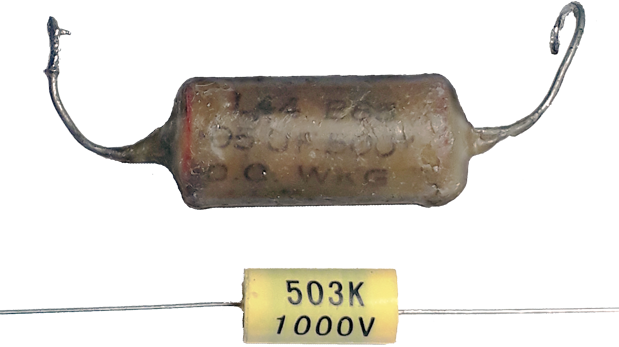
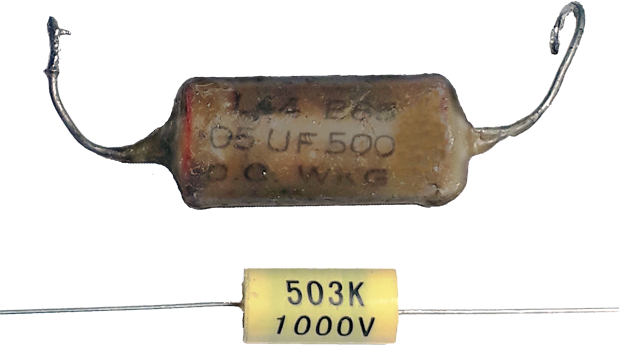
Modified the Heading "Motovation" on the about page.  Improved the wax-modern-comparison image.

Changed region(s): [[0.4297, 0.2594, 0.7367, 0.4899], [0.3376, 0.3458, 0.3683, 0.4323]]

diff --git a/client/src/app/views/about/about.component.html b/client/src/app/views/about/about.component.html
@@ -11,18 +11,34 @@
   </p>
   <br>
   <h2>Motivation</h2>
-  <p>
-    <app-image align="right" src="../../../assets/wax-modern-comparison.png" style="margin-left: 40px;"
-         width=300px alt="Comparison between antique and modern capacitor">
-    </app-image>
-    When collectors restore these old electronics, most of the original capacitors must be removed and replaced as many
-    have failed over time.  As these old radio components are replaced with modern equivalents, some of the historical
-    value and ascetic is lost.  I created this website to help preserve the history of these old components.
-    In addition, when restoring rare radios, some collectors will create visual reproductions of the capacitors by
-    printing out paper labels, and attaching them to modern ones.  A feature of this website will be to have printouts
-    of capacitor labels for creating reproductions.
+  <div style="text-align: left; text-indent: 40px;">
+    <figure class="right__aligned__figure">
+      <app-image src="../../../assets/wax-modern-comparison.png"
+                 width=400px alt="Comparison between antique and modern capacitor">
+      </app-image>
+      <figcaption style="margin-top: 5px"><strong>Vintage and Modern Comparison</strong></figcaption>
+    </figure>
+    <p>
+      When collectors restore vintage electronics, most of the original capacitors are removed and replaced, since
+      many have failed over time.  When old components are replaced with modern equivalents, some of the historical
+      value and ascetic is lost.
+    </p>
 
-  </p>
+    <p style="font-style: italic">
+      I created this website to preserve the history of these old components.
+    </p>
+
+    <p>
+      In addition, when restoring rare radios, some collectors will create visual reproductions of the capacitors.
+      This may be done by printing out paper labels, and attaching them to modern equivalents.  A feature of this
+      website will be to have printouts of capacitor labels for creating reproductions.
+    </p>
+    <!--<figure>
+      <app-image align="right" src="../../../assets/ubuntu-server.jpg" width=270px link="true" alt="home server"></app-image>
+      <figcaption><strong>The $30 USD laptop hosting this website <br>from my home in New Zealand.</strong></figcaption>
+    </figure>-->
+
+  </div>
   <br>
   <br>
   <br>

diff --git a/client/src/app/views/about/about.component.css b/client/src/app/views/about/about.component.css
@@ -1,7 +1,16 @@
 
-div {
+.content {
   text-align: center;
   margin-bottom: 150px;
+  margin-left: 75px;
+  margin-right: 200px;
+}
+
+.right__aligned__figure {
+  float: right;
+  text-align: center;
+  margin-left: -20px;
+  margin-top: -3px;
 }
 
 h1 {
@@ -14,7 +23,3 @@ h2 {
   margin-bottom: 5px;
 }
 
-p {
-  margin-left: 12%;
-  margin-right: 12%;
-}
